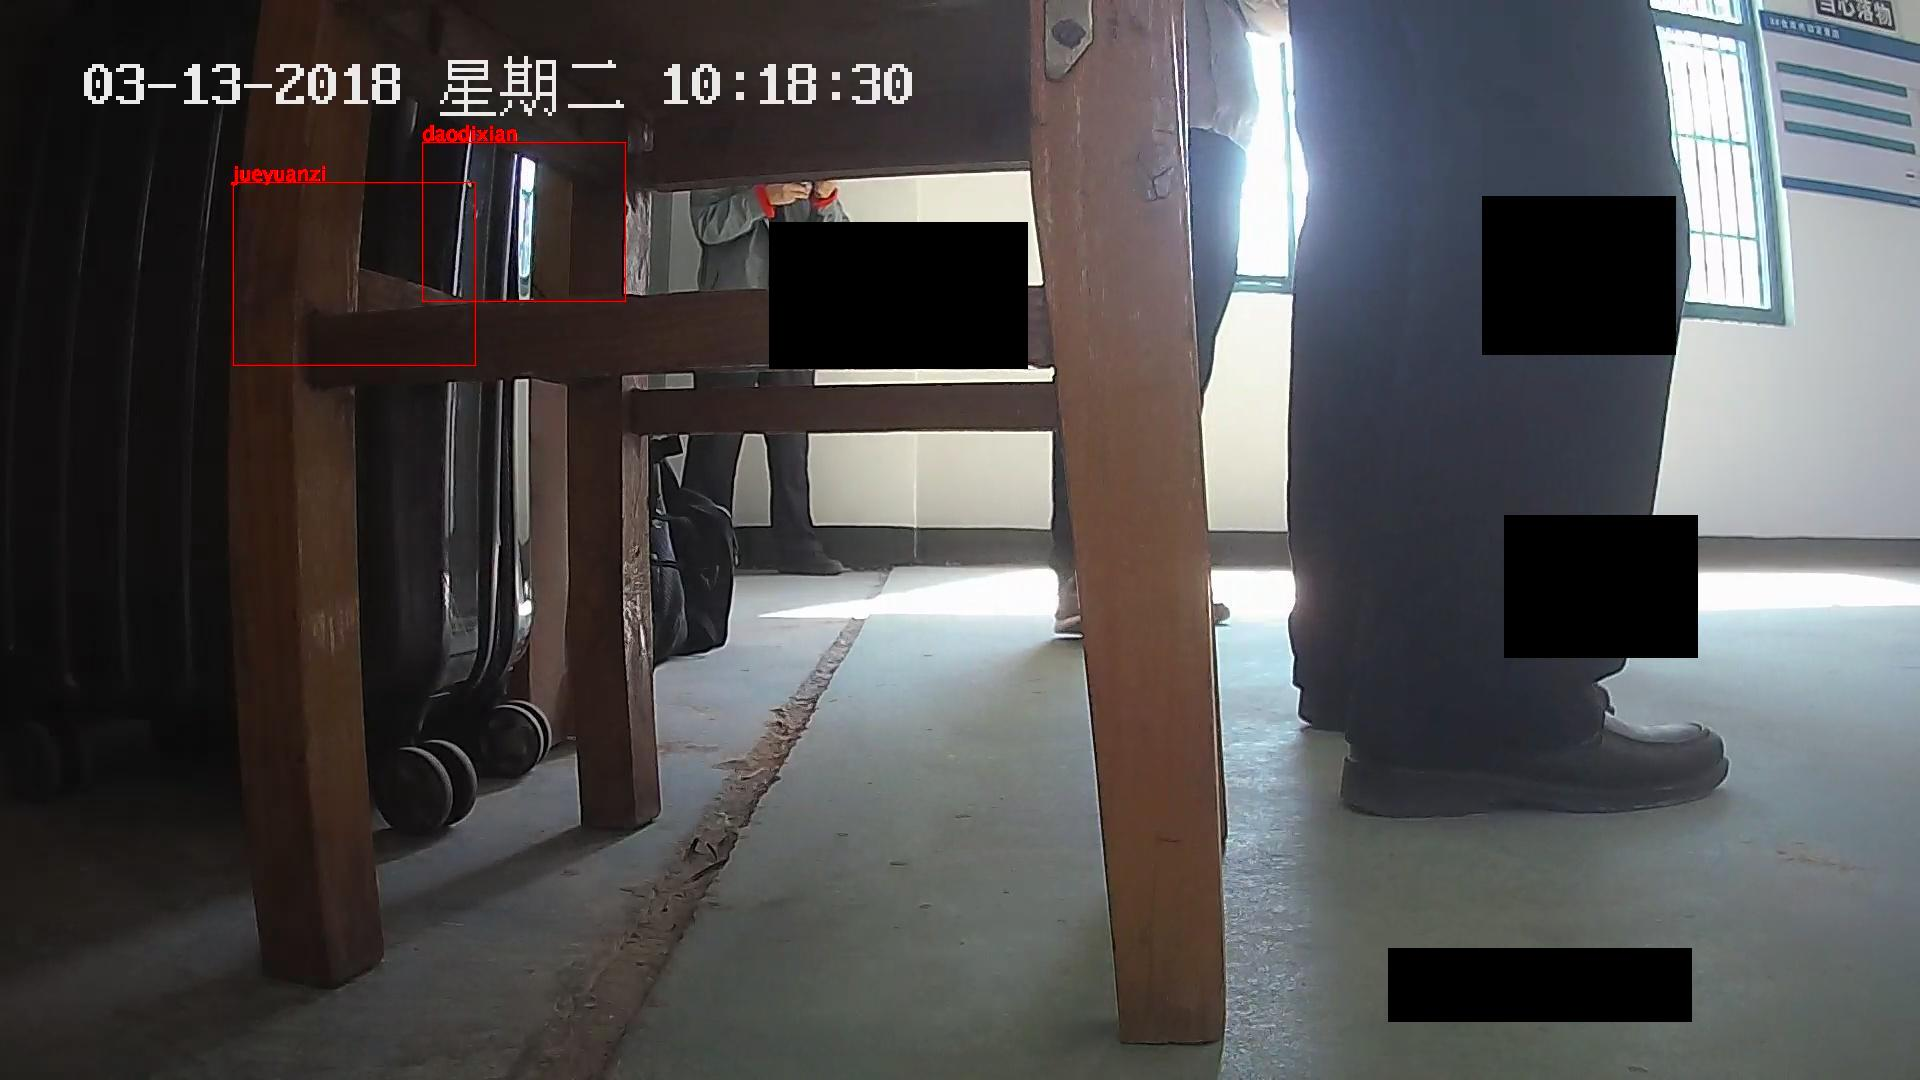
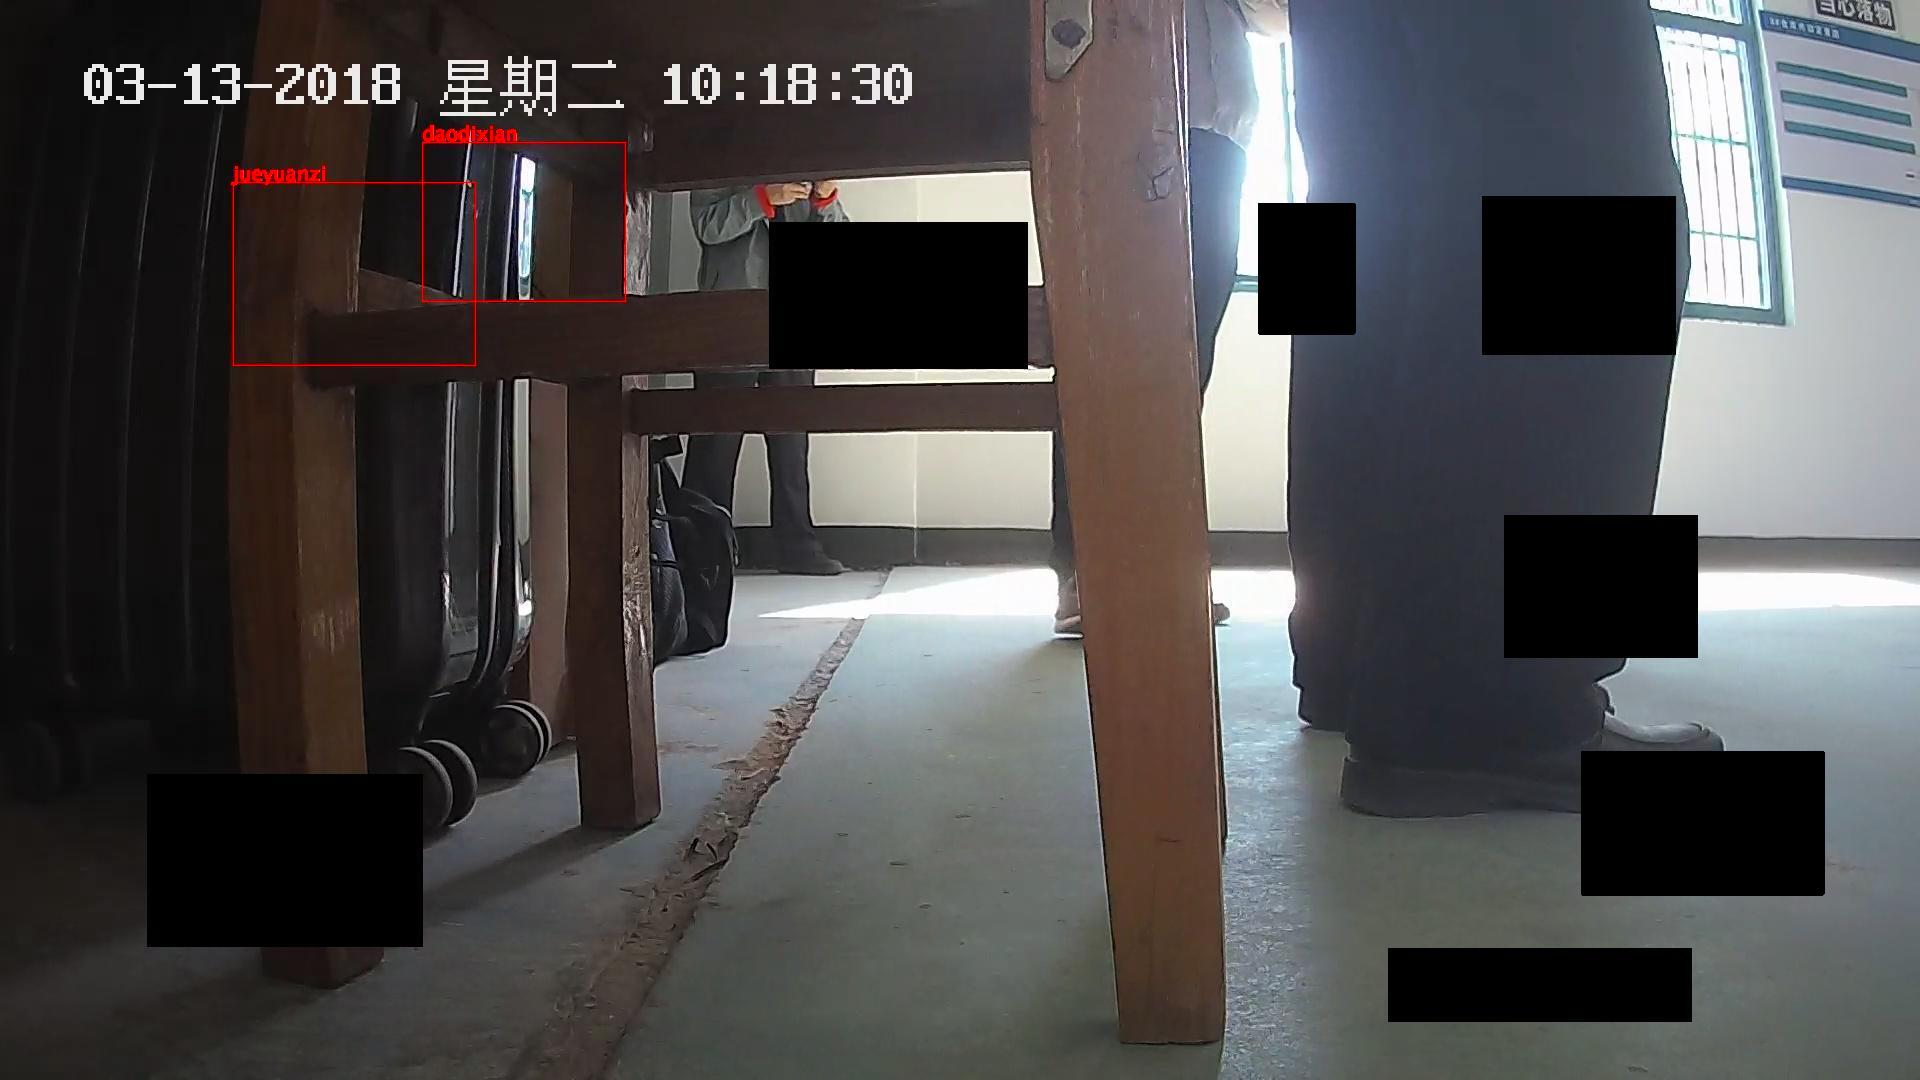
set pen width

Changed region(s): [[0.8125, 0.6722, 0.9688, 0.8556], [0.0625, 0.7028, 0.2188, 0.8861], [0.6562, 0.1833, 0.7188, 0.3361]]

diff --git a/mainwindow.py b/mainwindow.py
@@ -5,7 +5,7 @@ import os.path
 import glob
 from xmlhandle import Parsexml
 from PyQt5.QtWidgets import QWidget, QApplication,QLabel,QGridLayout,QPushButton,QFileDialog
-from PyQt5.QtGui import QPainter, QColor, QFont,QImage,QPixmap
+from PyQt5.QtGui import QPainter, QColor, QFont,QImage,QPixmap,QPen
 from PyQt5.QtCore import Qt,QRect,QDir,QPoint
 from PyQt5.QtCore import QObject, pyqtSignal
 
@@ -51,7 +51,7 @@ class ImageLabel(QLabel):
 			qp = QPainter()
 			if self.saveflag:
 				qp.begin(self.orimage)
-				qp.setPen(Qt.black)
+				qp.setPen(QPen(Qt.black, 3))
 				qp.setBrush(Qt.black)
 				for rect in self.darkrects:
 					x=rect.topLeft().x()/self.rate[0]
@@ -81,8 +81,6 @@ class ImageLabel(QLabel):
 			showimage=self.image.scaled(self.width(),self.height(), Qt.KeepAspectRatio, Qt.SmoothTransformation)
 			if showimage.width():
 					self.rate=[float(showimage.width())/self.image.width(),float(showimage.height())/self.image.height()]
-					print (self.rate)
-
 
 			qp.begin(self)
 			self.yoffset=(self.height()-showimage.height())/2
@@ -91,9 +89,10 @@ class ImageLabel(QLabel):
 
 			if self.darkflag:
 				if self.darkrects:
+					qp.setPen(QPen(Qt.black, 3))
 					for rect in self.darkrects:
 						qp.drawRect(rect)
-				qp.setPen(Qt.black)
+				qp.setPen(QPen(Qt.black, 3))
 				qp.drawRect(self.startpos.x(),self.startpos.y(),self.curpos.x()-self.startpos.x(),self.curpos.y()-self.startpos.y())
 			qp.end()
 
@@ -102,7 +101,6 @@ class ImageLabel(QLabel):
 		if self.darkflag:
 			self.startpos=event.pos()
 			self.curpos=event.pos()
-			print (event.pos())
 
 	def	mouseReleaseEvent (self, event):
 		if self.darkflag:

diff --git a/xmlhandle.py b/xmlhandle.py
@@ -7,6 +7,7 @@ import glob
 from xml.dom.minidom import parse
 import xml.dom.minidom
 import sqlite3
+
 #读取xml，保存到字典中
 def Parsexml(xmlname):
 	result={}
@@ -89,7 +90,7 @@ class Parsetxt:
 if (__name__=="__main__"):
 	#print(Parsexml('test.xml'))
 	txtpraser=Parsetxt('image/result.txt')
-	lists=txtpraser.getmsg('image/test2.jpg')
+	lists=txtpraser.getmsg('image/test.jpg')
 	print(lists)
 
 
